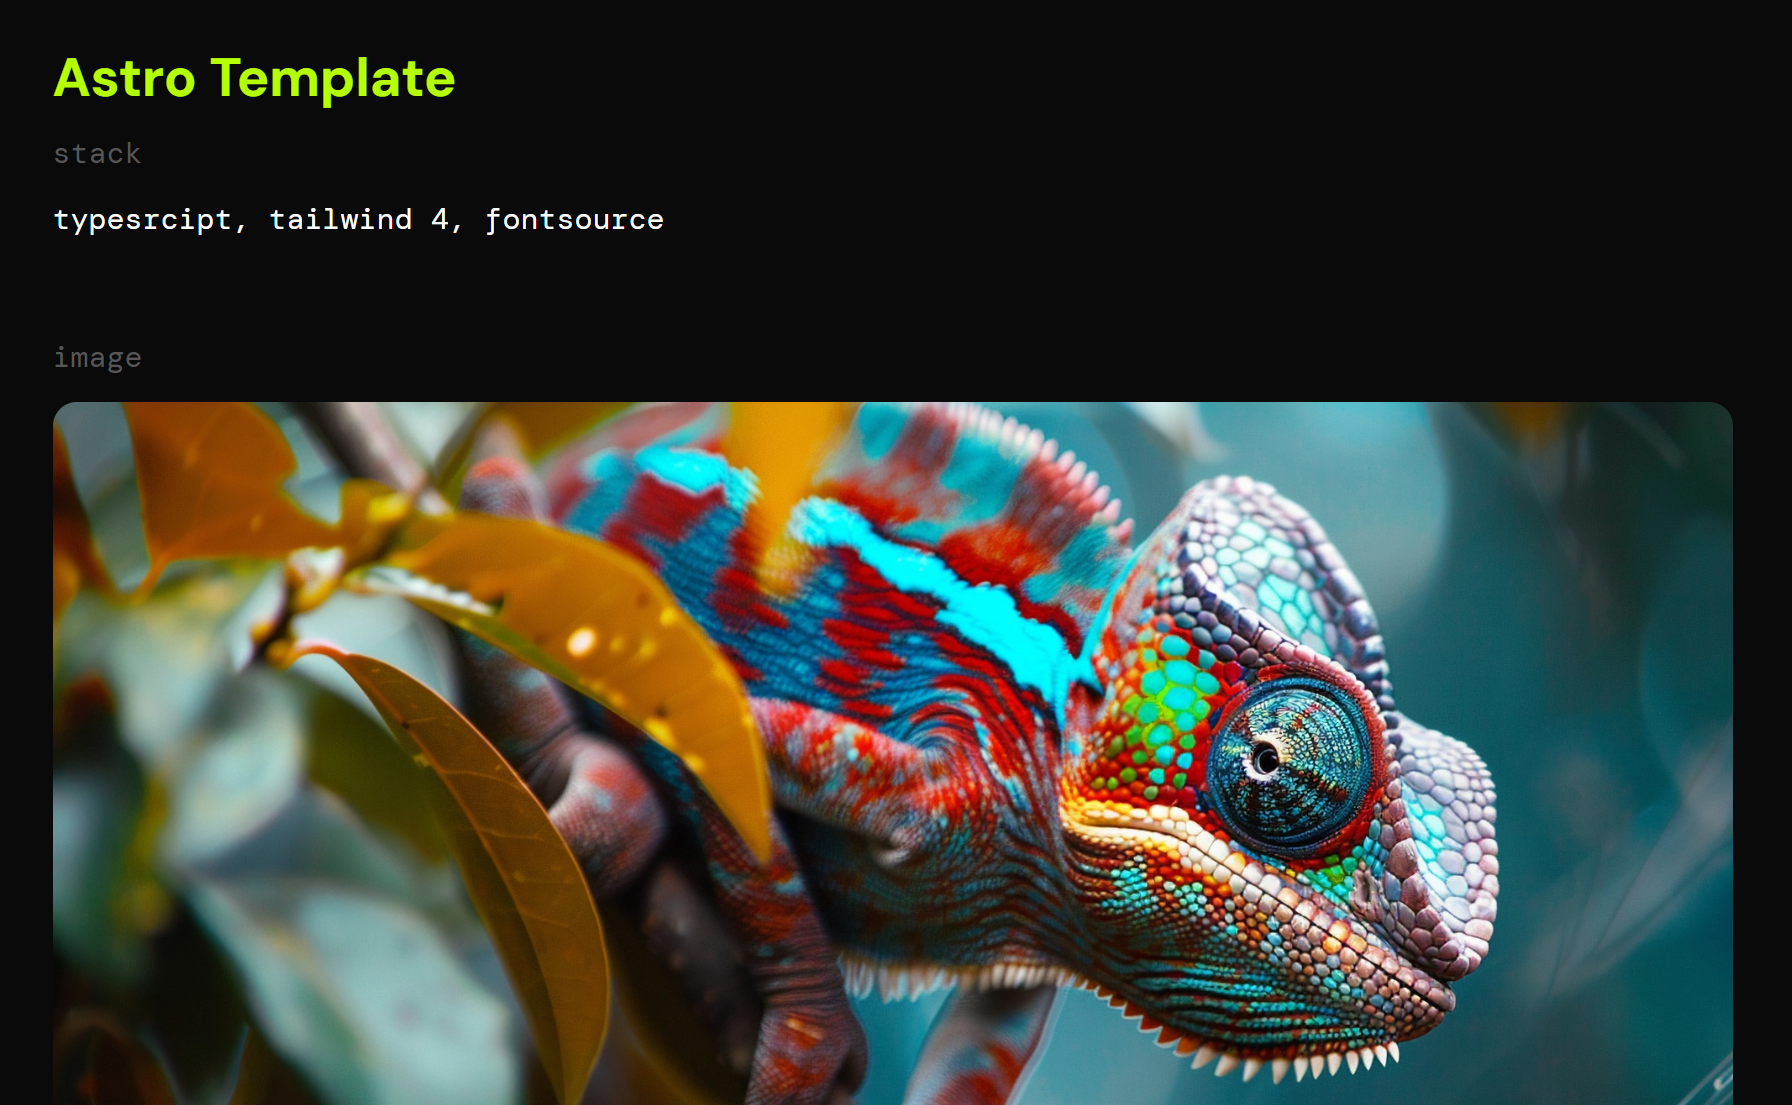
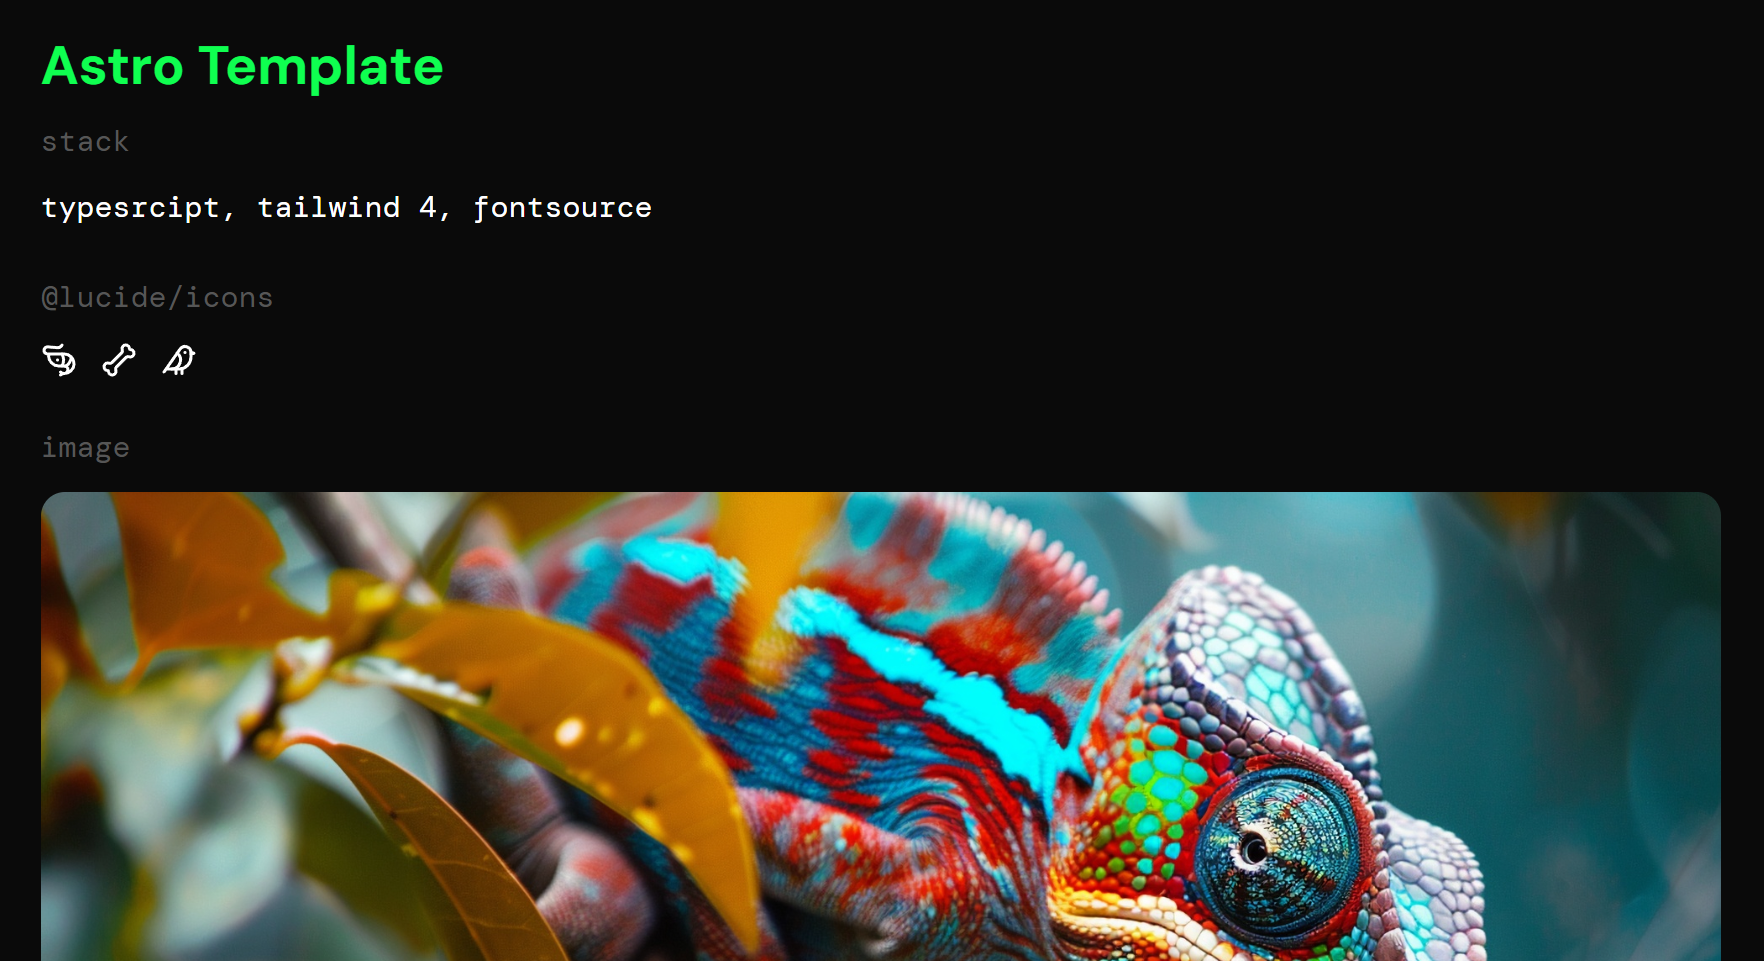
feat: improve layout

diff --git a/src/global.css b/src/global.css
@@ -8,7 +8,7 @@
     --color-background: #0a0a0a;
     --color-foreground: #ffffff;
     --color-muted: #565656;
-    --color-primary: #b4ff00;
+    --color-primary: #0fff50;
     --color-primary-foreground: #000000;
 
     --radius-xs: 0.25rem;
